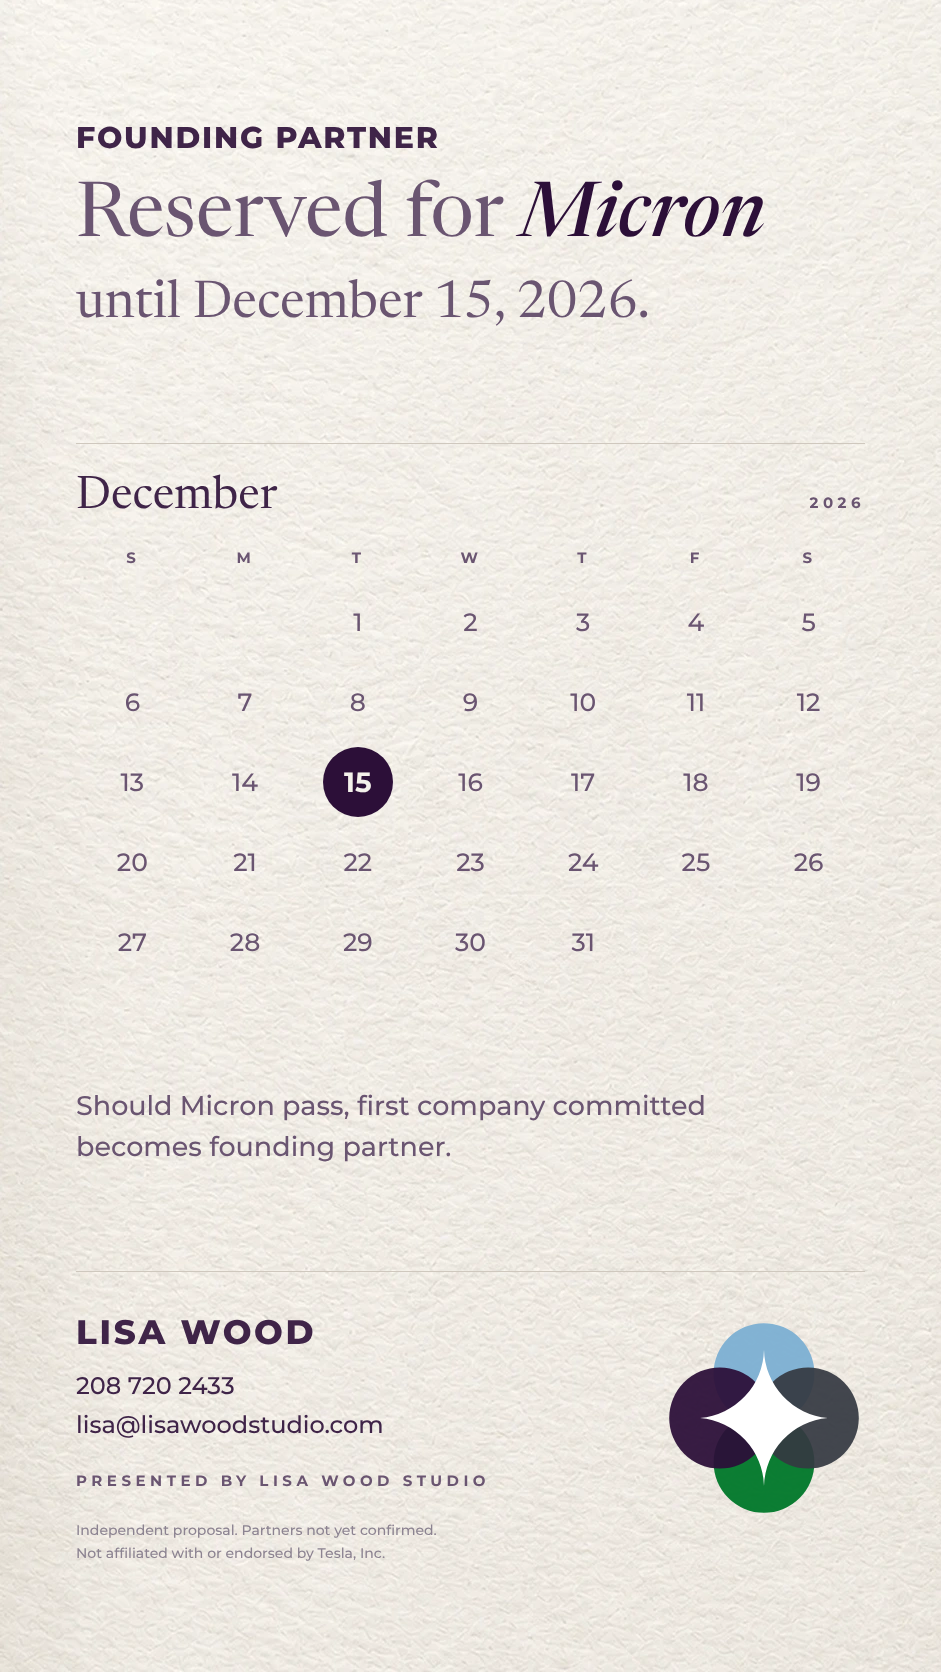
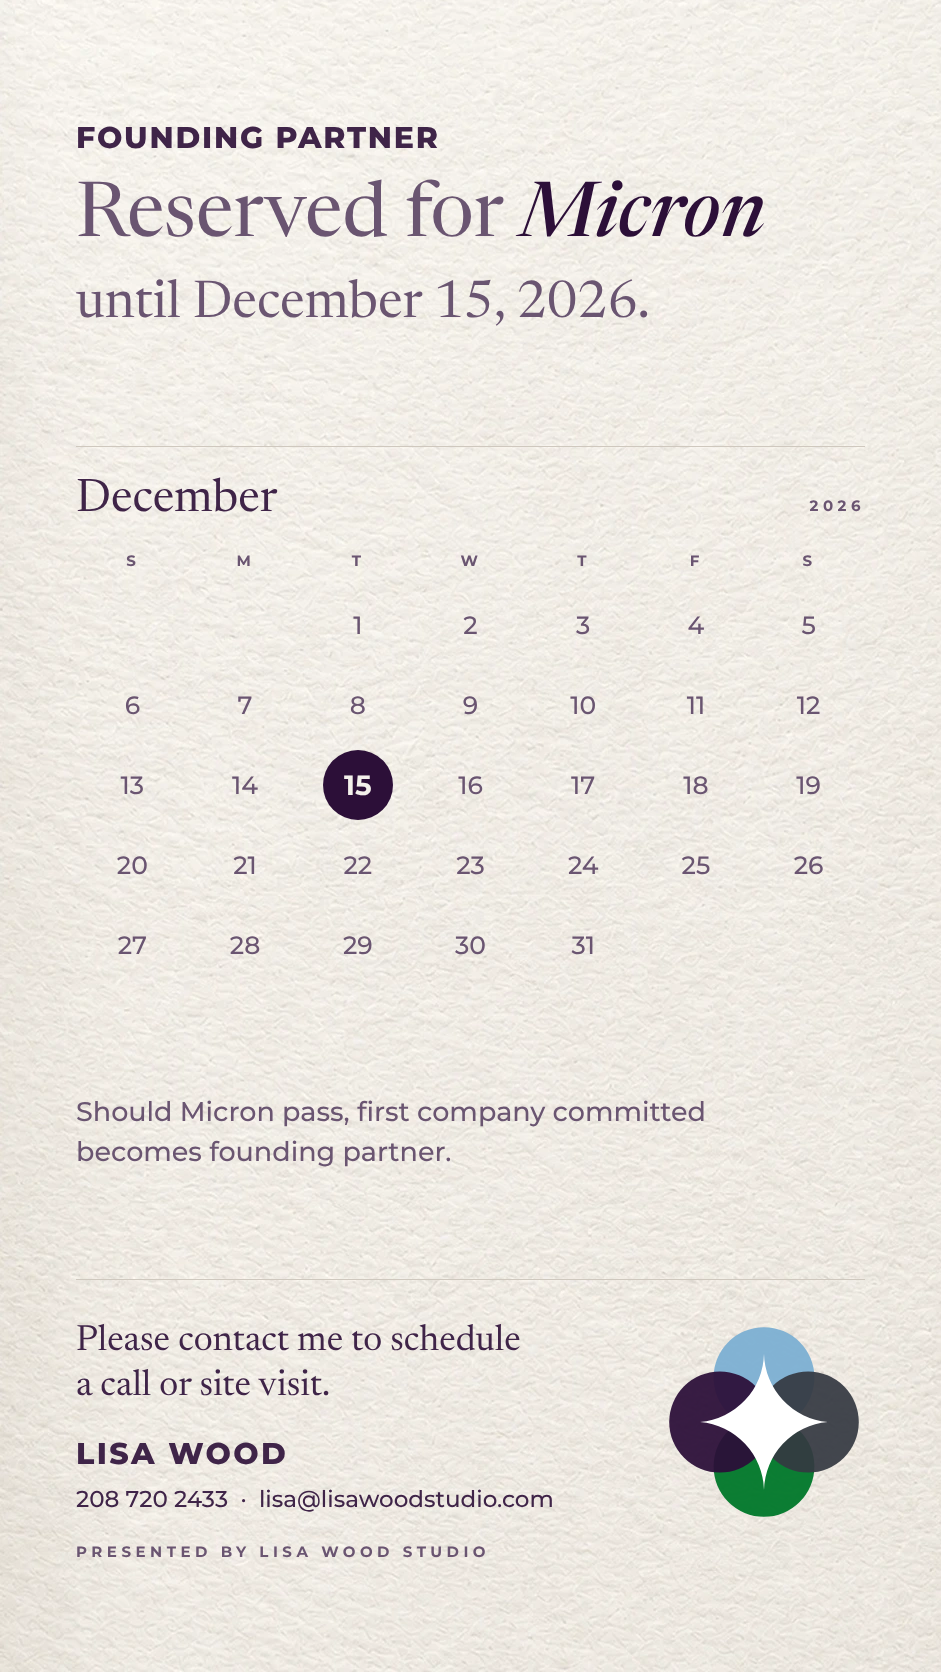
Card 6: remove small print, add contact line; master copy updated
Claude-Session: https://claude.ai/code/session_018mjyHLtRipED1pdLKidqkG

diff --git a/mockups/card6/unique/card6-cal-FINAL.html b/mockups/card6/unique/card6-cal-FINAL.html
@@ -21,9 +21,8 @@
 <div style="margin-top:12px;display:grid;grid-template-columns:repeat(7,1fr);grid-auto-rows:80px"><div></div><div></div><div style="display:flex;justify-content:center;align-items:center;font-size:25px;font-weight:500;color:#6a5571">1</div><div style="display:flex;justify-content:center;align-items:center;font-size:25px;font-weight:500;color:#6a5571">2</div><div style="display:flex;justify-content:center;align-items:center;font-size:25px;font-weight:500;color:#6a5571">3</div><div style="display:flex;justify-content:center;align-items:center;font-size:25px;font-weight:500;color:#6a5571">4</div><div style="display:flex;justify-content:center;align-items:center;font-size:25px;font-weight:500;color:#6a5571">5</div><div style="display:flex;justify-content:center;align-items:center;font-size:25px;font-weight:500;color:#6a5571">6</div><div style="display:flex;justify-content:center;align-items:center;font-size:25px;font-weight:500;color:#6a5571">7</div><div style="display:flex;justify-content:center;align-items:center;font-size:25px;font-weight:500;color:#6a5571">8</div><div style="display:flex;justify-content:center;align-items:center;font-size:25px;font-weight:500;color:#6a5571">9</div><div style="display:flex;justify-content:center;align-items:center;font-size:25px;font-weight:500;color:#6a5571">10</div><div style="display:flex;justify-content:center;align-items:center;font-size:25px;font-weight:500;color:#6a5571">11</div><div style="display:flex;justify-content:center;align-items:center;font-size:25px;font-weight:500;color:#6a5571">12</div><div style="display:flex;justify-content:center;align-items:center;font-size:25px;font-weight:500;color:#6a5571">13</div><div style="display:flex;justify-content:center;align-items:center;font-size:25px;font-weight:500;color:#6a5571">14</div><div style="display:flex;justify-content:center;align-items:center"><span style="width:70px;height:70px;border-radius:50%;background:#2c0f38;color:#f4f1eb;display:flex;align-items:center;justify-content:center;font-size:28px;font-weight:700">15</span></div><div style="display:flex;justify-content:center;align-items:center;font-size:25px;font-weight:500;color:#6a5571">16</div><div style="display:flex;justify-content:center;align-items:center;font-size:25px;font-weight:500;color:#6a5571">17</div><div style="display:flex;justify-content:center;align-items:center;font-size:25px;font-weight:500;color:#6a5571">18</div><div style="display:flex;justify-content:center;align-items:center;font-size:25px;font-weight:500;color:#6a5571">19</div><div style="display:flex;justify-content:center;align-items:center;font-size:25px;font-weight:500;color:#6a5571">20</div><div style="display:flex;justify-content:center;align-items:center;font-size:25px;font-weight:500;color:#6a5571">21</div><div style="display:flex;justify-content:center;align-items:center;font-size:25px;font-weight:500;color:#6a5571">22</div><div style="display:flex;justify-content:center;align-items:center;font-size:25px;font-weight:500;color:#6a5571">23</div><div style="display:flex;justify-content:center;align-items:center;font-size:25px;font-weight:500;color:#6a5571">24</div><div style="display:flex;justify-content:center;align-items:center;font-size:25px;font-weight:500;color:#6a5571">25</div><div style="display:flex;justify-content:center;align-items:center;font-size:25px;font-weight:500;color:#6a5571">26</div><div style="display:flex;justify-content:center;align-items:center;font-size:25px;font-weight:500;color:#6a5571">27</div><div style="display:flex;justify-content:center;align-items:center;font-size:25px;font-weight:500;color:#6a5571">28</div><div style="display:flex;justify-content:center;align-items:center;font-size:25px;font-weight:500;color:#6a5571">29</div><div style="display:flex;justify-content:center;align-items:center;font-size:25px;font-weight:500;color:#6a5571">30</div><div style="display:flex;justify-content:center;align-items:center;font-size:25px;font-weight:500;color:#6a5571">31</div><div></div><div></div></div></div>
 <div class="p">Should Micron pass, first company committed<br>becomes founding partner.</div>
 <div class="rule" style="padding-top:40px;display:grid;grid-template-columns:1fr auto;column-gap:30px;align-items:center">
-<div><div class="h" style="font-size:34px;letter-spacing:.08em">Lisa Wood</div>
-<div class="sm" style="margin-top:14px;font-size:24px">208 720 2433</div>
-<div class="sm" style="margin-top:2px;font-size:24px">lisa@lisawoodstudio.com</div>
-<div class="lab" style="margin-top:26px">Presented by Lisa Wood Studio</div>
-<div class="fine" style="margin-top:26px">Independent proposal. Partners not yet confirmed.<br>Not affiliated with or endorsed by Tesla, Inc.</div></div>
+<div><div class="serif" style="font-size:36px;line-height:1.25;color:#3f2448">Please contact me to schedule<br>a call or site visit.</div>
+<div class="h" style="margin-top:26px;font-size:30px;letter-spacing:.08em">Lisa Wood</div>
+<div class="sm" style="margin-top:10px;font-size:23px">208 720 2433 &nbsp;·&nbsp; lisa@lisawoodstudio.com</div>
+<div class="lab" style="margin-top:22px">Presented by Lisa Wood Studio</div></div>
 <div style="padding-right:6px;transform:translateY(-20px)"><img src="mark.svg" style="width:190px;height:190px;display:block"></div></div></div></div></body></html>

diff --git a/mockups/card6/unique/build-cal2.py b/mockups/card6/unique/build-cal2.py
@@ -20,10 +20,9 @@ html=f'''<div class="col">
 {cal()}
 <div class="p">{PASS}</div>
 <div class="rule" style="padding-top:40px;display:grid;grid-template-columns:1fr auto;column-gap:30px;align-items:center">
-<div><div class="h" style="font-size:34px;letter-spacing:.08em">Lisa Wood</div>
-<div class="sm" style="margin-top:14px;font-size:24px">208 720 2433</div>
-<div class="sm" style="margin-top:2px;font-size:24px">lisa@lisawoodstudio.com</div>
-<div class="lab" style="margin-top:26px">Presented by Lisa Wood Studio</div>
-<div class="fine" style="margin-top:26px">Independent proposal. Partners not yet confirmed.<br>Not affiliated with or endorsed by Tesla, Inc.</div></div>
+<div><div class="serif" style="font-size:36px;line-height:1.25;color:{P}">Please contact me to schedule<br>a call or site visit.</div>
+<div class="h" style="margin-top:26px;font-size:30px;letter-spacing:.08em">Lisa Wood</div>
+<div class="sm" style="margin-top:10px;font-size:23px">208 720 2433 &nbsp;·&nbsp; lisa@lisawoodstudio.com</div>
+<div class="lab" style="margin-top:22px">Presented by Lisa Wood Studio</div></div>
 <div style="padding-right:6px;transform:translateY(-20px)">{mark(190)}</div></div></div>'''
 open('card6-cal-FINAL.html','w').write(HEAD+html+END)
